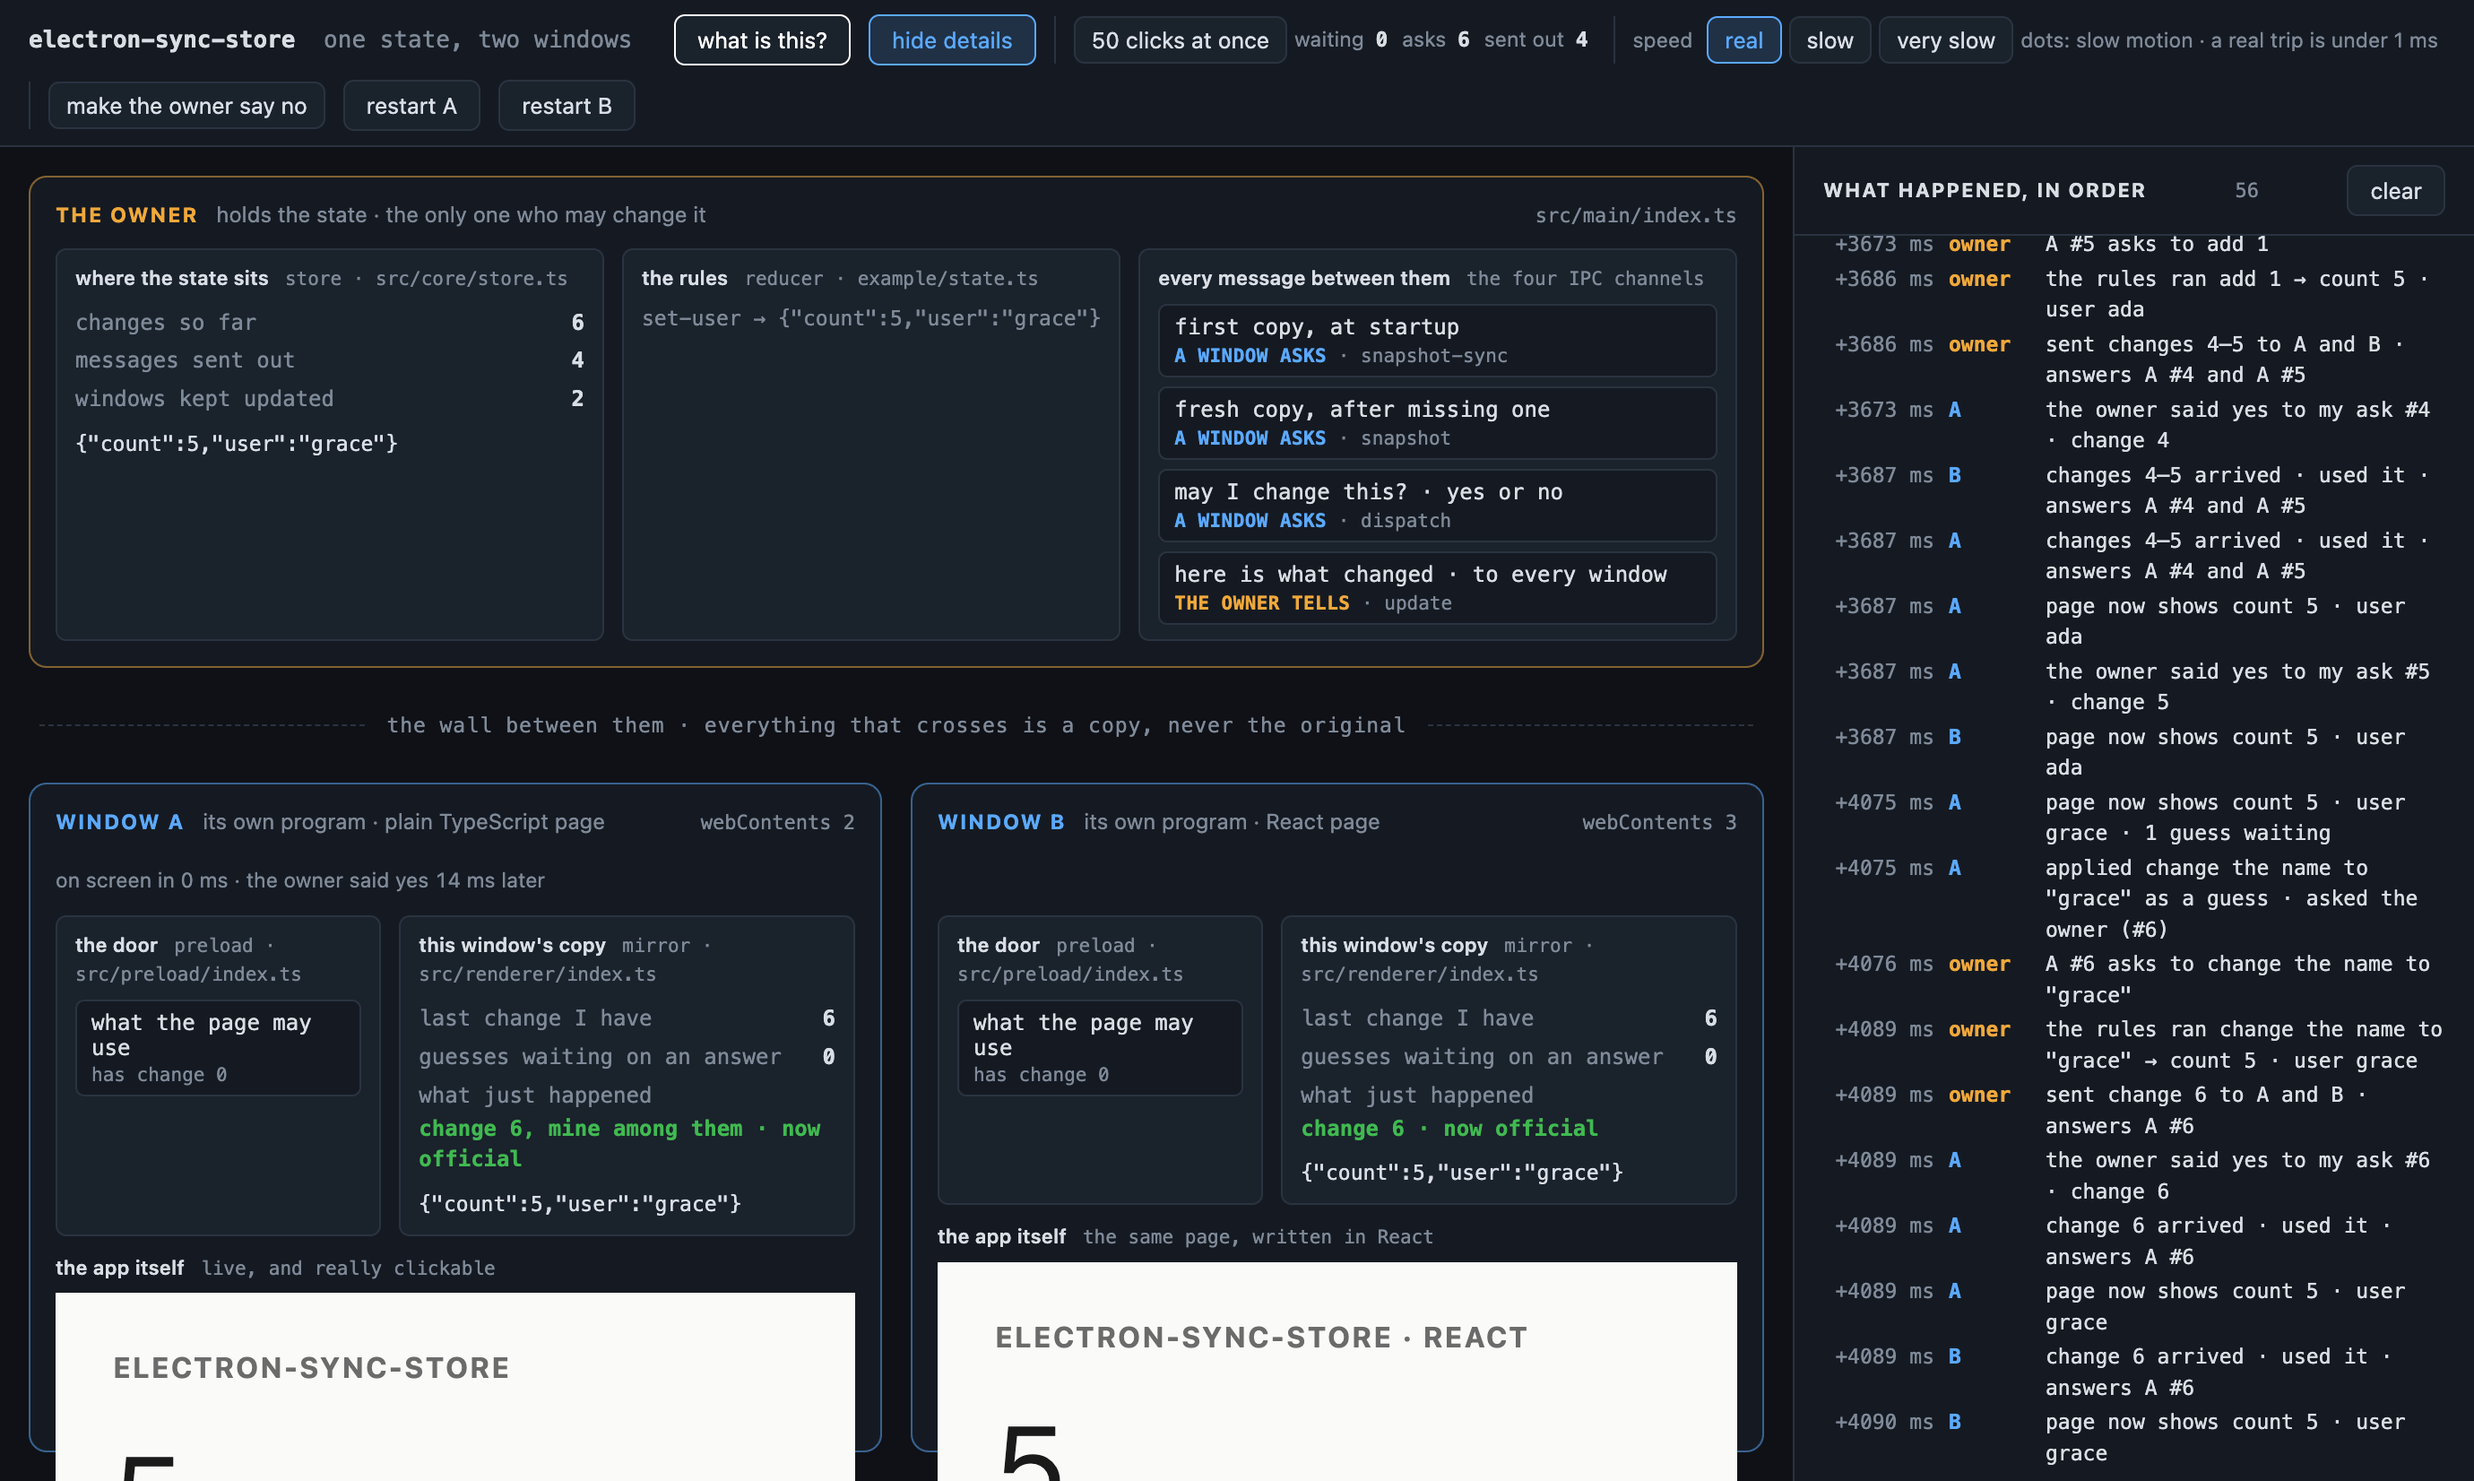
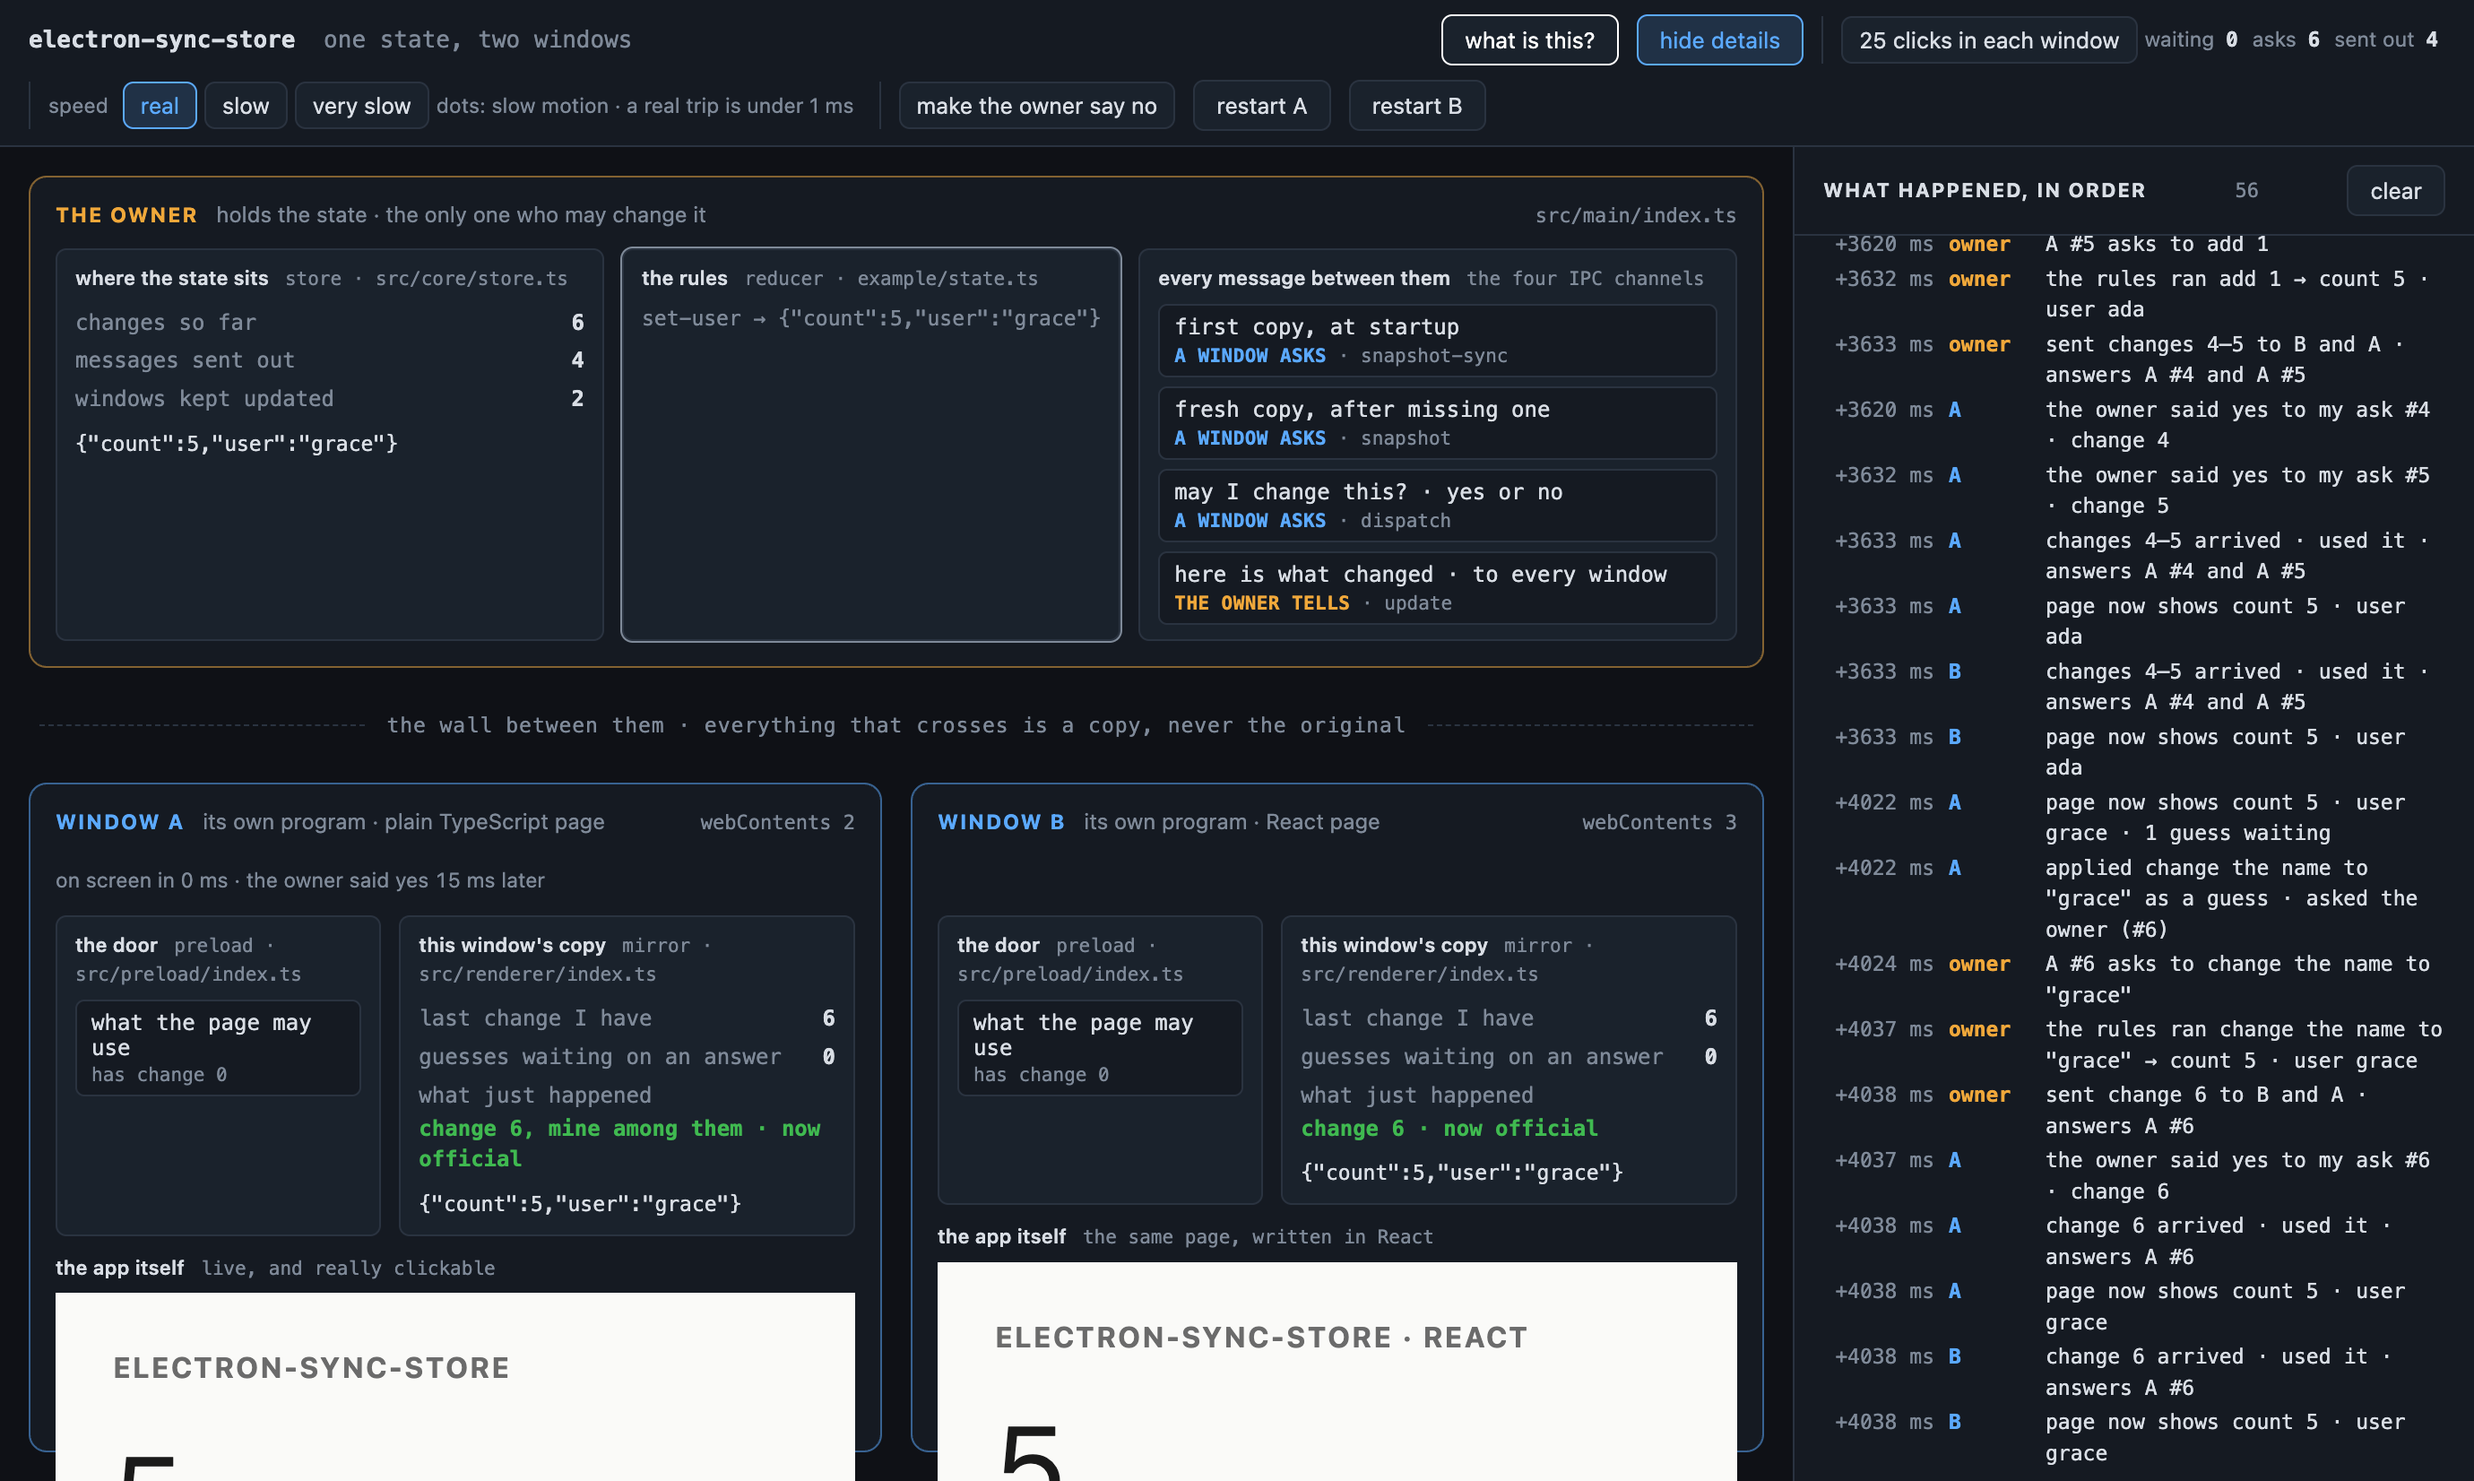
docs(example): the rush button says what it actually does
It sent rush(25) to each pane, so fifty asks arrived split evenly between
the two windows — but the label said "50 clicks at once", which reads as
fifty clicks happening here. The result was a number that jumped to 25,
paused, then jumped to 50, and looked like a bug.

It is the opposite of a bug: the first jump is that window's own clicks,
guessed locally at 0 ms, and the second is the other window's arriving by
broadcast. Both mechanisms in one gesture. The label and the intro now say
so, and the screenshots are regenerated to match.

diff --git a/example/inspector.html b/example/inspector.html
@@ -615,7 +615,7 @@
       <button class="primary" data-topic="overview">what is this?</button>
       <button id="details-toggle">show details</button>
       <div class="group" title="give the owner more asks than it can answer at once">
-        <button id="rush">50 clicks at once</button>
+        <button id="rush">25 clicks in each window</button>
         <span class="waiting">waiting <b id="waiting">0</b></span>
         <span class="waiting">asks <b id="asks">0</b></span>
         <span
@@ -792,12 +792,13 @@ the wall between them · everything that crosses is a copy, never the original
               wrong, and the number snaps back the moment the answer arrives.
             </p>
             <p>
-              Then press <b>50 clicks at once</b>. The owner answers one ask at a
-              time, so its answers fall behind — and the numbers on the pages
-              never slow down at all. That is what the guessing is for. Watch
-              <b>sent out</b> while you do: fifty asks, a handful of messages
-              back, because everything the owner changes in one go is announced
-              in one go.
+              Then press <b>25 clicks in each window</b>. Both windows jump to 25
+              at once — those are each window’s own clicks, guessed locally —
+              and then both jump to 50 as the other window’s changes arrive.
+              Instant for what you did, one message later for what someone else
+              did. Watch <b>sent out</b> while you do: fifty asks, a handful of
+              messages back, because everything the owner changes in one go is
+              announced in one go.
             </p>
             <div class="actions">
               <button class="primary" data-topic="guessing">

diff --git a/example/explanations.ts b/example/explanations.ts
@@ -49,7 +49,7 @@ export const topics: Record<string, Topic> = {
       "Click +. The number moves in 0 ms, before any message has left the window.",
       "The window can do that because it has the same rules the owner has, so it already knows the likely answer.",
       "The ask still goes to the owner and the answer still comes back. That is the second number next to the window.",
-      'Press "50 clicks at once" to hand the owner a pile of asks, and watch its answer time climb: it answers one at a time, so the last one waits for all the others.',
+      'Press "25 clicks in each window" to hand the owner fifty asks at once, and watch its answer time climb: it answers one at a time, so the last one waits for all the others.',
       "The number on the page never slows down, however long the answer takes.",
       "If the owner says no, that one guess is undone and the number snaps back.",
     ],

diff --git a/example/preload.ts b/example/preload.ts
@@ -64,7 +64,7 @@ const demo = {
   trace(event: unknown): void {
     ipcRenderer.send(DEMO.trace, { at: Date.now(), event });
   },
-  /** The inspector's "50 clicks at once" button, relayed through main. */
+  /** The inspector's "25 clicks in each window" button, relayed through main. */
   onRush(callback: (each: number) => void): void {
     ipcRenderer.on(DEMO.rush, (_event, each: number) => {
       callback(each);

diff --git a/README.md b/README.md
@@ -43,8 +43,10 @@ Three things to try:
   instantly, long before the message reaches main. That is the guess.
 - Press **make the owner say no**, then click. The guess was wrong, and the
   number snaps back the moment the answer arrives.
-- Press **50 clicks at once** and watch `asks` against `sent out`. Fifty asks;
-  three messages back.
+- Press **25 clicks in each window**. Both jump to 25 immediately — each
+  window’s own clicks, guessed locally — then both jump to 50 as the other
+  window’s changes arrive. Watch `asks` against `sent out`: fifty asks, a
+  handful of messages back.
 
 ---
 
